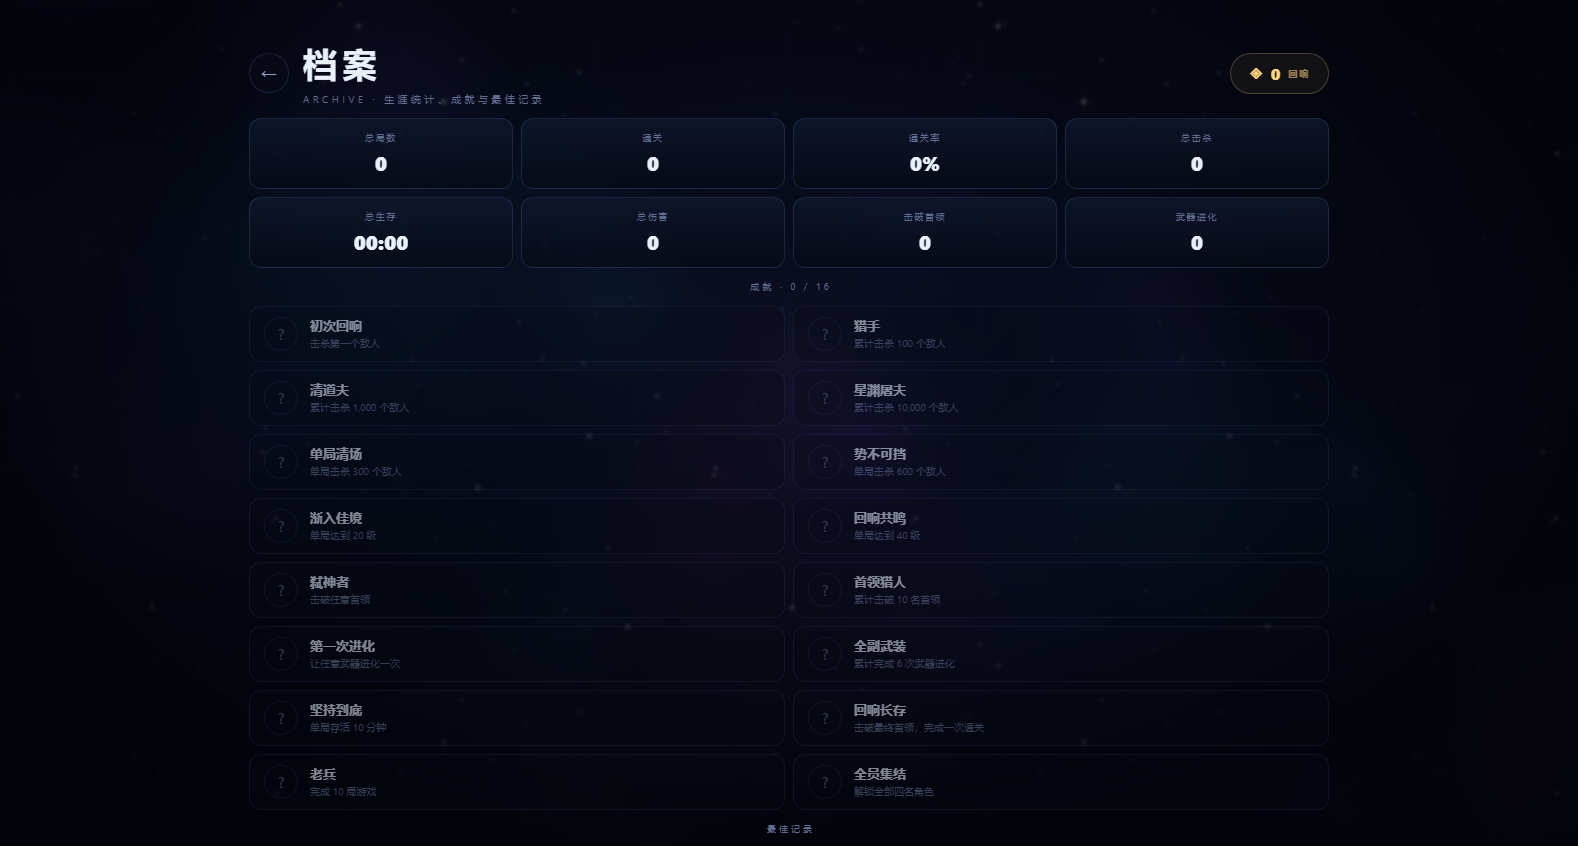
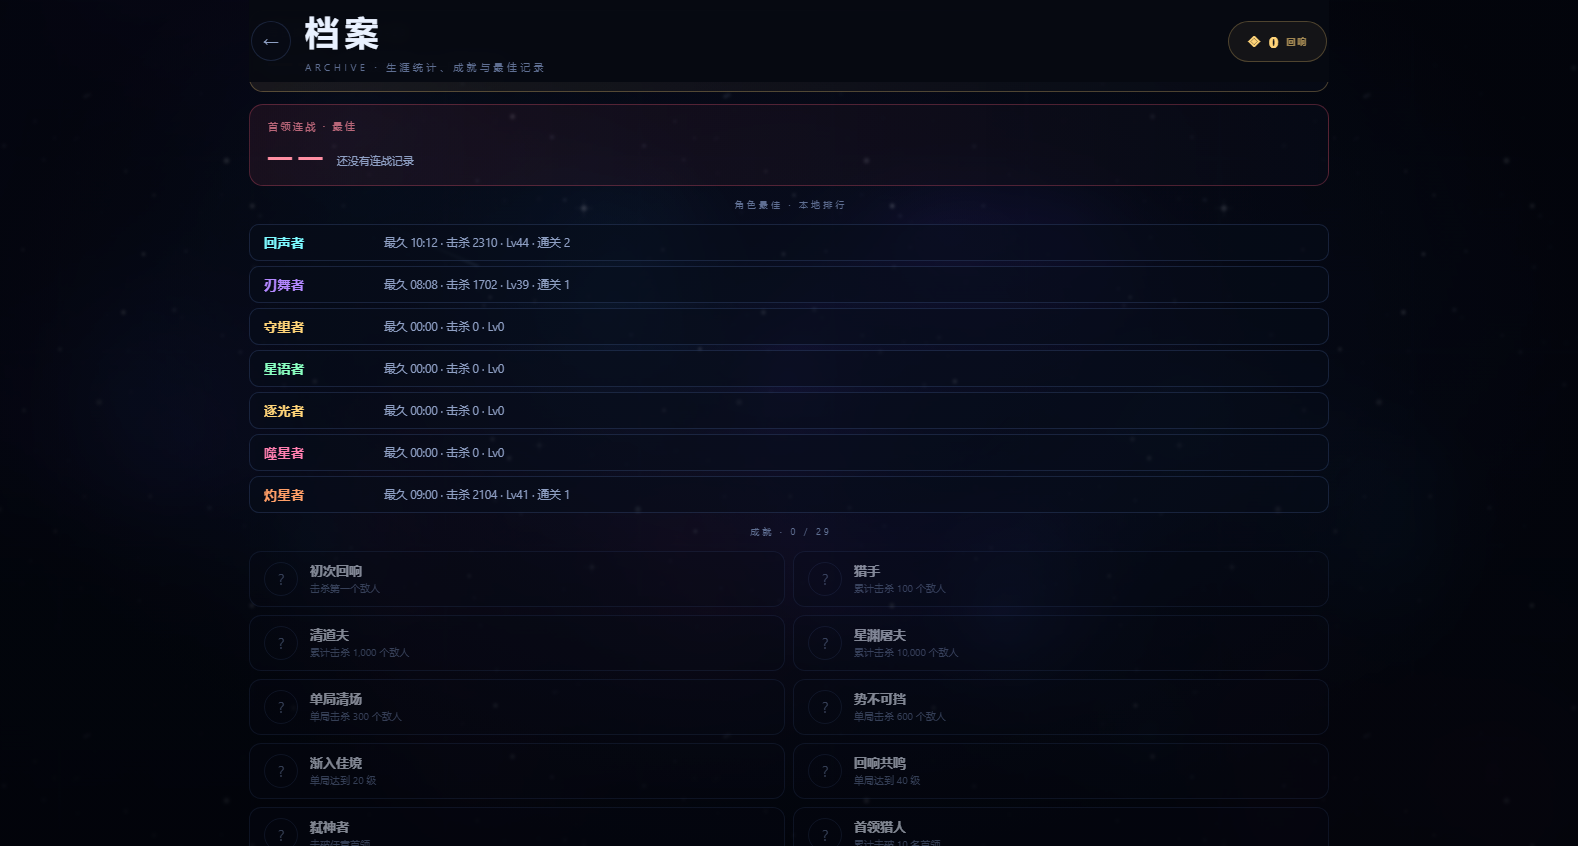
项目: 《星渊回响》v1.32.0 —— 角色本地排行

diff --git a/projects/aether-echo/js/ui.js b/projects/aether-echo/js/ui.js
@@ -757,8 +757,7 @@
           '<div><div class="ach-name">' + a.name + '</div><div class="ach-desc">' + a.desc + '</div></div>' +
           '</div>';
       }).join('');
-      const runs = (S.bestRuns || []).map(function (r, i) {
-        const c = AE.Data.CHAR_MAP[r.char];
+      const runs = (S.bestRuns || []).map(function (r, i) {        const c = AE.Data.CHAR_MAP[r.char];
         return '<div class="run-row">' +
           '<span class="run-rank">#' + (i + 1) + '</span>' +
           '<b>' + U.fmtTime(r.time) + '</b>' +
@@ -784,6 +783,12 @@
             (AE.Data.CHAR_MAP[rb.char] ? AE.Data.CHAR_MAP[rb.char].name : rb.char) + ' · ' + (rb.date || '') + '</span></div>'
           : '<div class="daily-card-main"><b>— —</b><span>还没有连战记录</span></div>') +
         '</div>';
+      const charBestHtml = AE.Data.CHARS.map(function (c) {
+        const cb = (S.charBest && S.charBest[c.id]) || {};
+        return '<div class="run-row char-best"><b style="color:' + c.color + '">' + c.name + '</b>' +
+          '<span>最久 ' + U.fmtTime(cb.time || 0) + ' · 击杀 ' + (cb.kills || 0) +
+          ' · Lv' + (cb.level || 0) + (cb.wins ? ' · 通关 ' + cb.wins : '') + '</span></div>';
+      }).join('');
       const html =
         '<div class="screen archive-screen">' +
         '<div class="meta-head"><div style="display:flex;align-items:center;gap:14px">' +
@@ -802,6 +807,8 @@
         '</div>' +
         dailyCard +
         rushCard +
+        '<div class="section-label">角色最佳 · 本地排行</div>' +
+        '<div class="run-list">' + charBestHtml + '</div>' +
         '<div class="section-label">成就 · ' + got.length + ' / ' + all.length + '</div>' +
         '<div class="ach-grid">' + achHtml + '</div>' +
         '<div class="section-label">最佳记录</div>' +

diff --git a/projects/aether-echo/js/core.js b/projects/aether-echo/js/core.js
@@ -210,7 +210,8 @@
         bestRuns: [],
         dailyBest: {},
         bestRush: { time: 0, char: '', date: '' },
-        bestPact: { tier: 0, time: 0, char: '', date: '' }
+        bestPact: { tier: 0, time: 0, char: '', date: '' },
+        charBest: {}
       };
     },
     load: function () {
@@ -236,6 +237,7 @@
         if (!d.bestRush || typeof d.bestRush !== 'object') d.bestRush = { time: 0, char: '', date: '' };
         if (!d.bestPact || typeof d.bestPact !== 'object') d.bestPact = base.bestPact;
         else for (const pk in base.bestPact) if (d.bestPact[pk] === undefined) d.bestPact[pk] = base.bestPact[pk];
+        if (!d.charBest || typeof d.charBest !== 'object') d.charBest = {};
       } else {
         d = base;
       }

diff --git a/projects/aether-echo/js/game.js b/projects/aether-echo/js/game.js
@@ -957,6 +957,14 @@
       if (G.time > (best.time || 0)) { best.time = G.time; newBest = true; }
       if (G.kills > (best.kills || 0)) best.kills = G.kills;
       if (G.level > (best.level || 0)) best.level = G.level;
+      // 每名角色的本地最佳记录
+      S.charBest = S.charBest || {};
+      const cb = S.charBest[p.char.id] || { time: 0, kills: 0, level: 0, wins: 0 };
+      cb.time = Math.max(cb.time || 0, G.time);
+      cb.kills = Math.max(cb.kills || 0, G.kills);
+      cb.level = Math.max(cb.level || 0, G.level);
+      if (victory) cb.wins = (cb.wins || 0) + 1;
+      S.charBest[p.char.id] = cb;
       S.seen = true;
       let dailyNew = false;
       let dailyBest = null;

diff --git a/projects/aether-echo/css/style.css b/projects/aether-echo/css/style.css
@@ -736,6 +736,8 @@ html, body {
   font-variant-numeric: tabular-nums;
 }
 .run-row b { color: var(--ink); font-size: 14px; letter-spacing: 0.04em; }
+.run-row.char-best { grid-template-columns: 110px 1fr; }
+.char-best b { font-size: 13px; }
 .run-rank { color: var(--dim2); font-size: 10px; }
 .run-char { color: var(--cyan); }
 .run-row .ok { color: var(--gold); }

diff --git a/projects/aether-echo/js/data.js b/projects/aether-echo/js/data.js
@@ -9,7 +9,7 @@
   const D = (g.DATA = g.DATA || {});
   AE.Data = D;
 
-  D.VERSION = '1.31.0';
+  D.VERSION = '1.32.0';
   D.TITLE = '星渊回响';
   D.SUBTITLE = 'AETHER ECHO';
 

diff --git a/projects/aether-echo/README.md b/projects/aether-echo/README.md
@@ -56,7 +56,7 @@ python -m http.server 8080
 - **七名角色**：逐光者把闪避本身变成穿身伤害，噬星者靠击杀永久叠伤，灼星者让所有命中附带持续燃烧并引燃周围。
 - **局外成长**：每局结束按表现结算「回响」，用于购买 8 种永久强化（含开局星核、灼烧强化）、解锁新角色。
 - **深渊契约**：开局可自选 1~4 条难度词条（兽潮 / 狂怒 / 疾行 / 精锐），每条敌人更强、结算回响 +20%，单独记录契约最佳。
-- **图鉴 / 档案**：全部武器、被动、敌人、首领、遗物、星象事件可查；29 项成就、生涯统计与本地最佳记录。
+- **图鉴 / 档案**：全部武器、被动、敌人、首领、遗物、星象事件可查；29 项成就、每角色最佳记录（最久/击杀/等级/通关）、生涯统计与本地最佳记录。
 - **每日挑战**：每天一个固定种子，叠加 2 条随机扰动（敌人移速 / 伤害 / 经验 / 护甲等），单独记录今日最佳。
 - **设置**：音乐 / 音效音量、屏幕震动、伤害数字、动态效果、高对比、画质，自动保存；持续掉帧会自动降一档画质。
 - **自动存档**：进度保存在浏览器 localStorage。
@@ -186,7 +186,7 @@ aether-echo/
 这个项目在没有手动点击的情况下做了两轮自动化验证：
 
 1. **Node 无头模拟器**（`tools/sim.cjs`）：在 Node 中加载真实游戏代码 + Canvas/DOM 桩，跑完整 10 分钟对局，机器人自动走位与选卡，输出等级 / 击杀 / BOSS / DPS 时间线，用于数值平衡。
-2. **Chrome CDP 自动化**（`tools/selftest.html` + `tools/cdp-selftest.cjs`）：真实浏览器中执行 112 项 UI 冒烟测试（菜单、开始、升级选卡、暂停、恢复、结算、强化购买、角色解锁、逐光者闪避伤害、噬星者击杀叠伤、星核爆发与能量积攒、深渊之眼运转、遗物数量与处决 / 雷霆效果、深渊契约开关与倍率、设置、高对比 / 低动态、图鉴、档案、成就、每日挑战种子与每日记录、首领登场、首领连战、遗物三选一），并抓取控制台异常；同时用 CDP 截图做视觉回归，覆盖 1600×1000 桌面、1280×720 短屏与手机竖屏。
+2. **Chrome CDP 自动化**（`tools/selftest.html` + `tools/cdp-selftest.cjs`）：真实浏览器中执行 113 项 UI 冒烟测试（菜单、开始、升级选卡、暂停、恢复、结算、强化购买、角色解锁、逐光者闪避伤害、噬星者击杀叠伤、星核爆发与能量积攒、深渊之眼运转、遗物数量与处决 / 雷霆效果、深渊契约开关与倍率、设置、高对比 / 低动态、图鉴、档案、成就、每日挑战种子与每日记录、首领登场、首领连战、遗物三选一），并抓取控制台异常；同时用 CDP 截图做视觉回归，覆盖 1600×1000 桌面、1280×720 短屏与手机竖屏。
 
 运行方式（本机 Electron 内置 Node）：
 
@@ -197,7 +197,7 @@ aether-echo/
 # 数值模拟：标签 局数 最长秒数 起始种子 [god]
 <electron> tools/sim.cjs demo 4 700 1
 
-# UI 冒烟测试（真实 Chrome，112 项断言，结果写入 tools/selftest-result.txt）
+# UI 冒烟测试（真实 Chrome，113 项断言，结果写入 tools/selftest-result.txt）
 <electron> tools/cdp-selftest.cjs file:///.../tools/selftest.html tools/selftest-result.txt
 
 # 截图（需要 Chrome）
@@ -266,6 +266,7 @@ aether-echo/
 
 ## 版本记录
 
+- **1.32.0** — 档案新增「角色最佳 · 本地排行」：7 名角色各自记录最久生存、最高击杀、最高等级与通关次数，旧存档自动补空结构；修掉角色排行行的网格错位；UI 冒烟测试扩到 113 项。
 - **1.31.0** — 移动端安全区：canvas HUD 读取 `env(safe-area-inset-*)` 并整体内缩，刘海/挖孔/Home 条不再遮挡等级、血条、计时与武器栏；「深渊再临」每轮开始与每次首领击破后加入 3~4.5 秒缓冲，不再六连贴脸；UI 冒烟测试扩到 112 项。
 - **1.30.0** — 满级流程补全：达到 60 级后不再堆积无用经验，拾取经验按 2% 转化为回响，HUD 显示「满级 · 经验转回响」；新增「星渊主宰」满级成就（29 项）；星核化身模型再放大 33%（R 2.1→2.8），更接近“巨型星神”；UI 冒烟测试扩到 111 项。
 - **1.29.3** — 首领暴走视觉强化：红色脉冲光环、旋转虚线戒环、碎屑爆发与屏幕闪白；首领名/词缀/中央播报/强敌警告重新分层，横屏 844×390 不再叠字；触屏链接按钮点击区提升到 40px；新增首领暴走状态断言（共 109 项）。
@@ -320,4 +321,4 @@ aether-echo/
 
 ---
 
-*版本 1.31.0 · 无外部素材 · 无第三方依赖*
+*版本 1.32.0 · 无外部素材 · 无第三方依赖*
